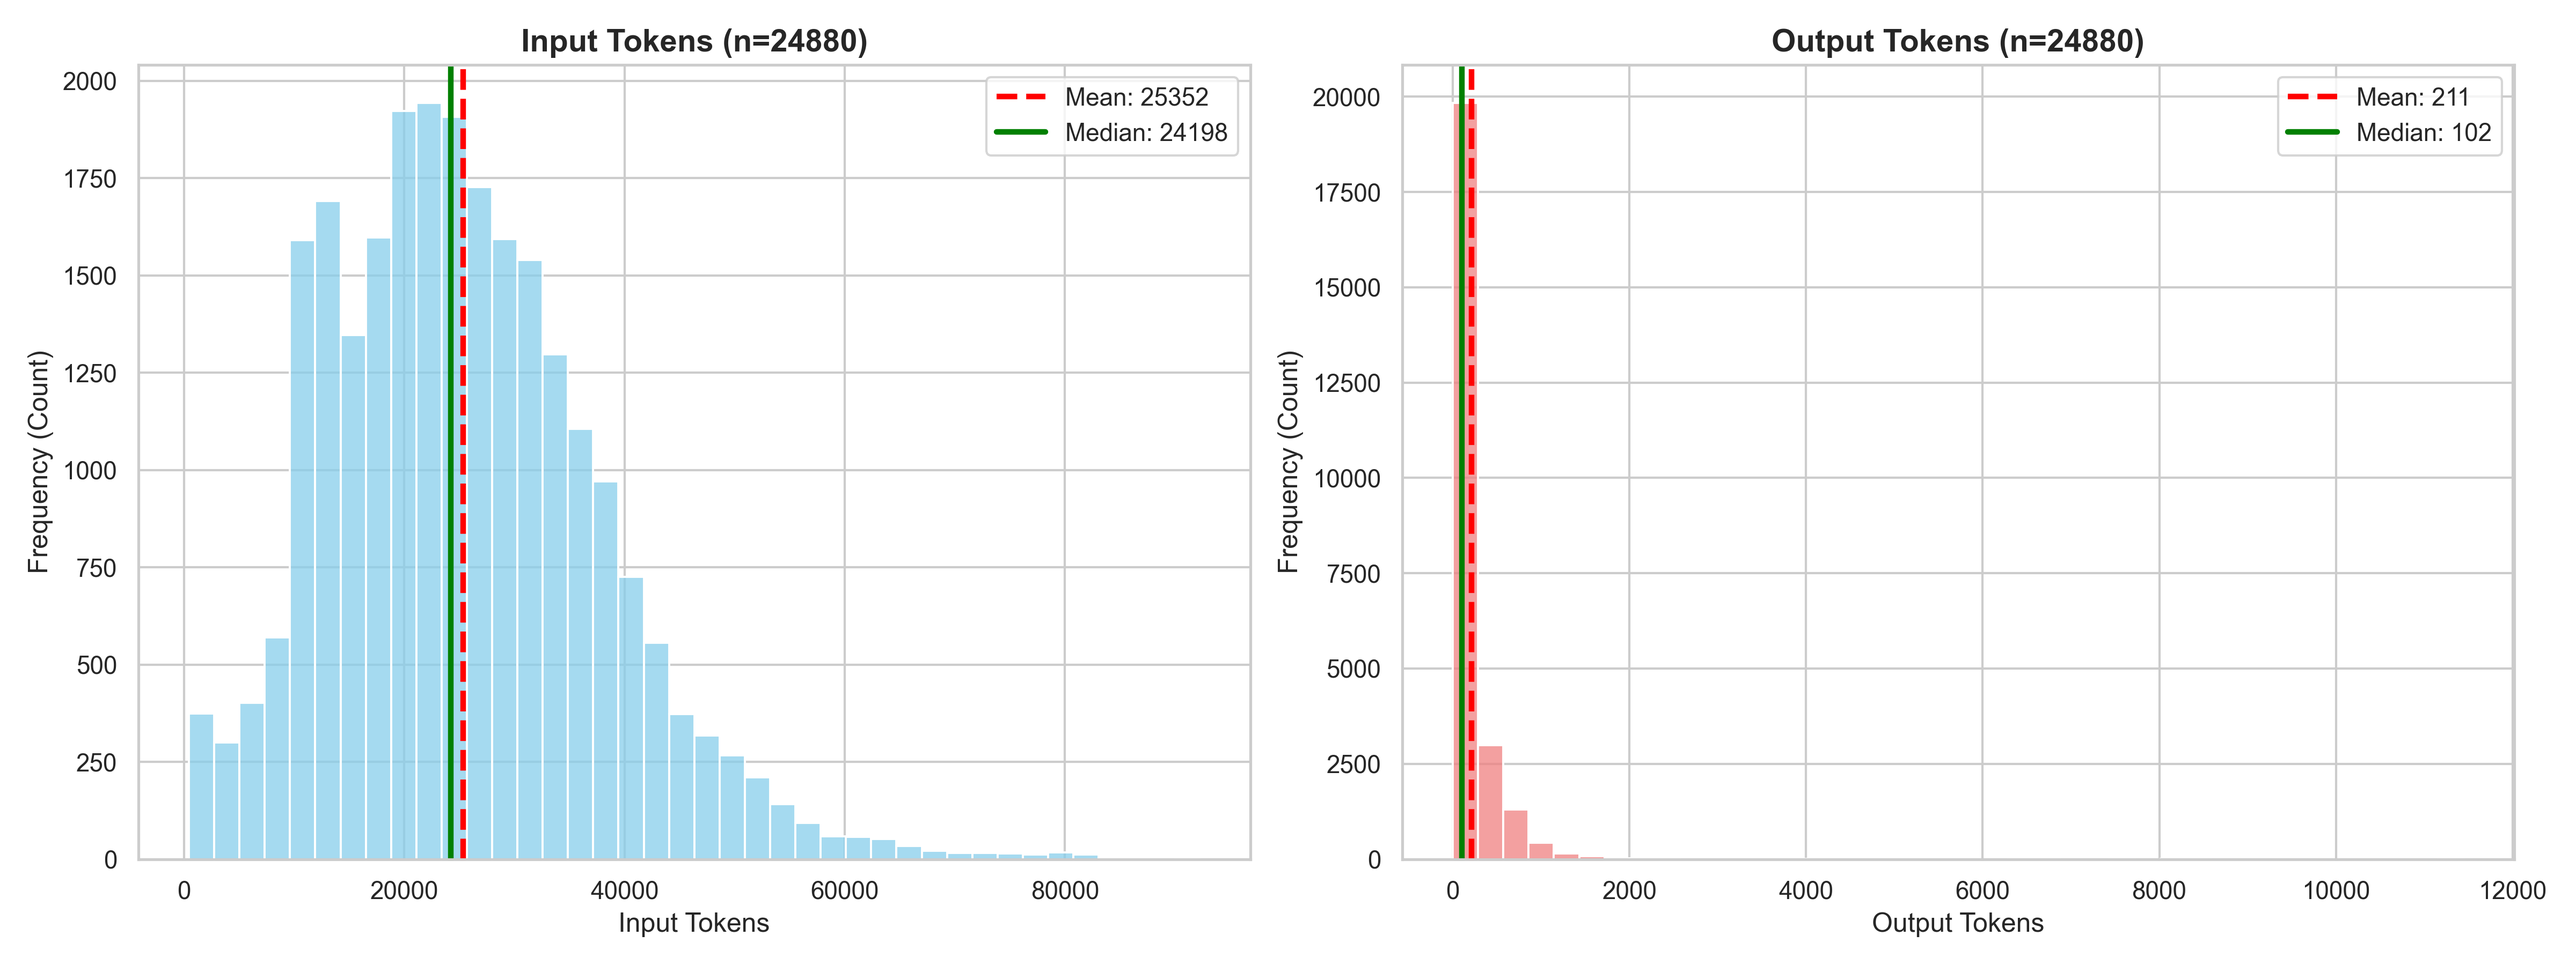
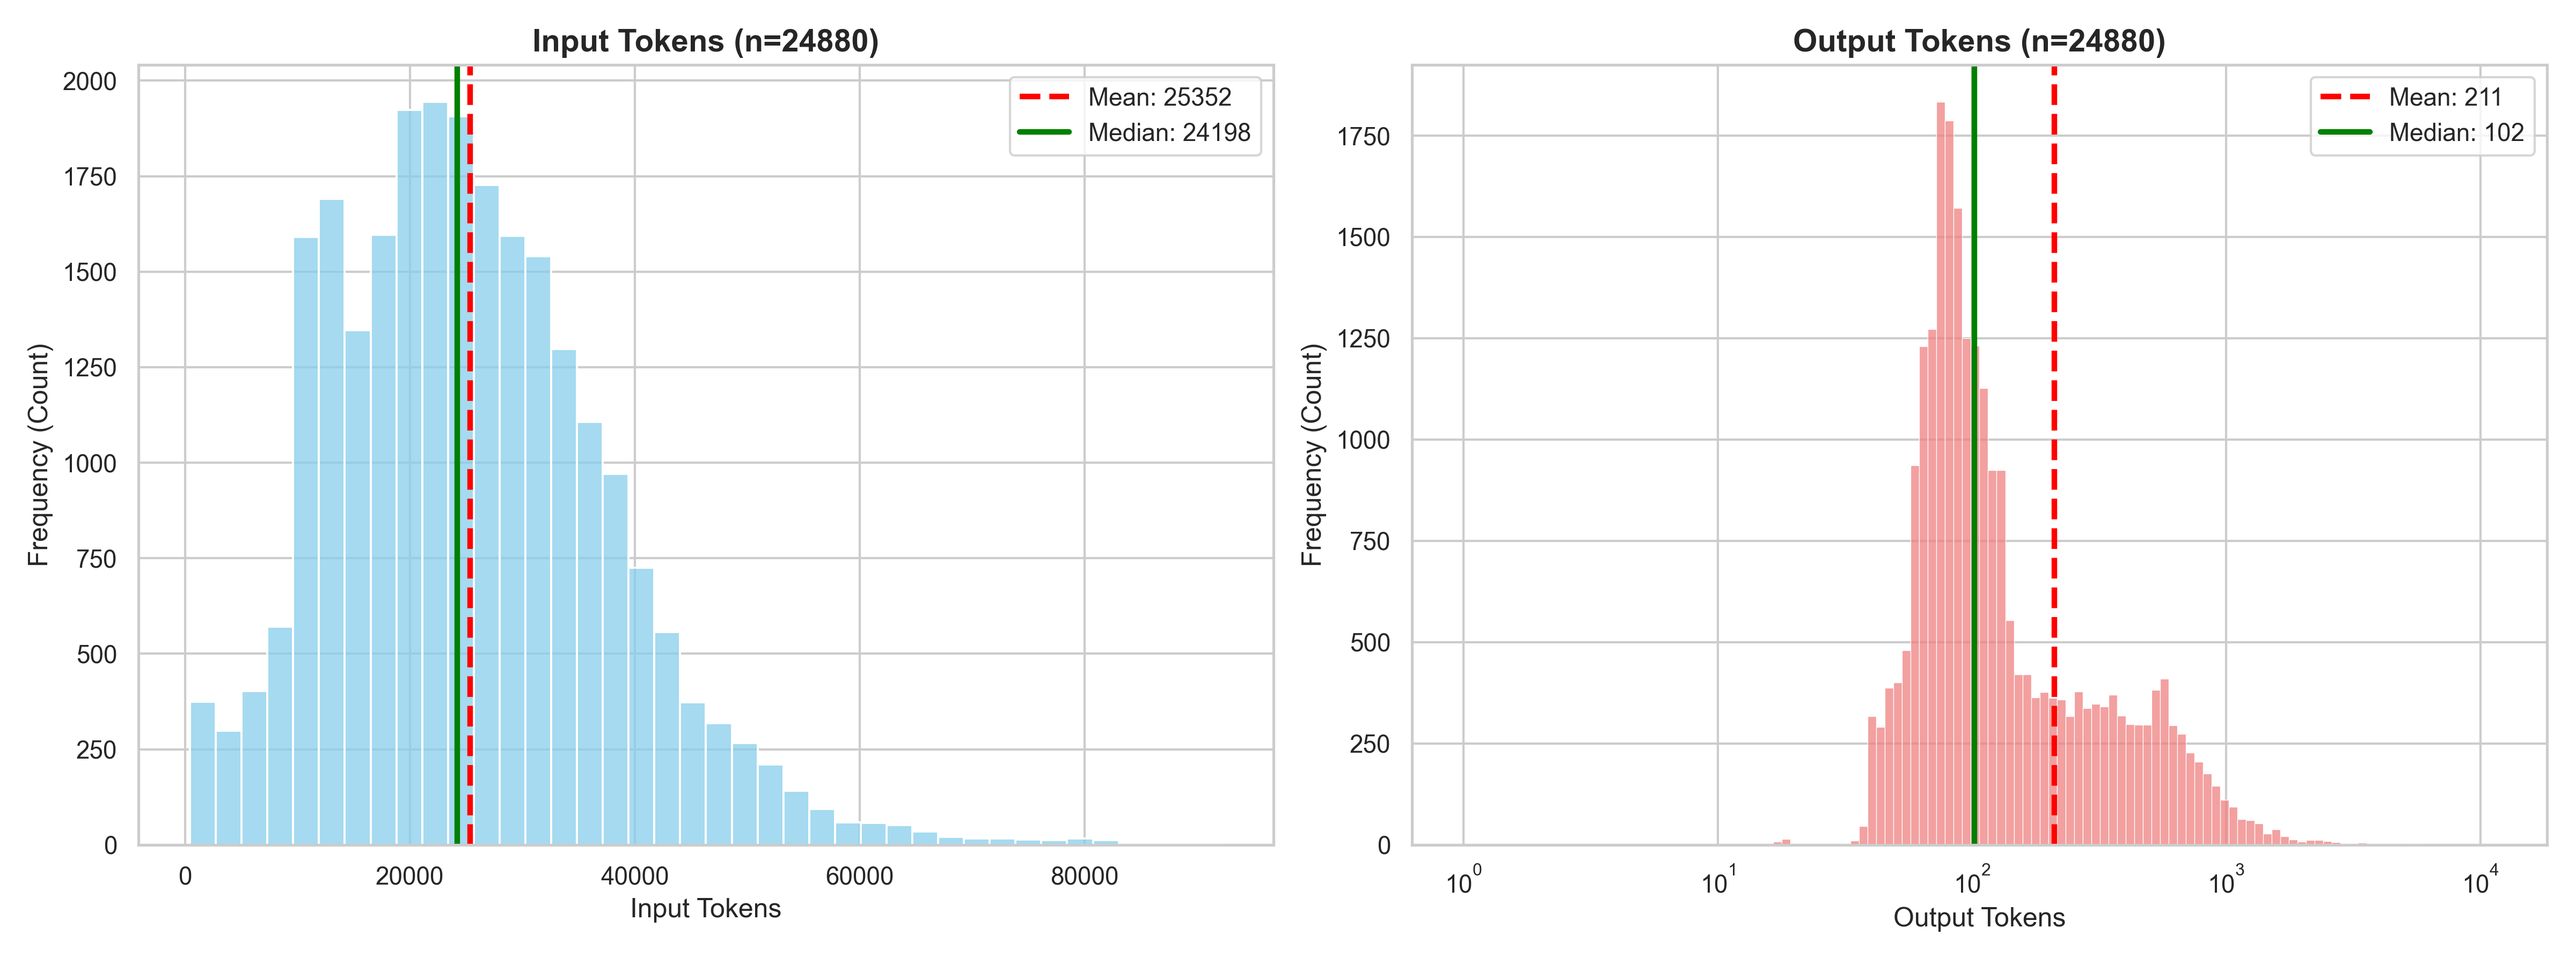
Add log scale for better viz

diff --git a/src/exploration/eda_analysis.py b/src/exploration/eda_analysis.py
@@ -119,7 +119,7 @@ class TelemetryEDA:
         # ---------------------------------------------------------
         # Subplot 2: Output Tokens (Column Plot)
         # ---------------------------------------------------------
-        sns.histplot(data=self.df, x='output_length', bins=40, color='lightcoral', ax=axes[1])
+        sns.histplot(data=self.df, x='output_length', bins=120, color='lightcoral', ax=axes[1], log_scale=True)
         
         output_mean = self.df['output_length'].mean()
         output_median = self.df['output_length'].median()
